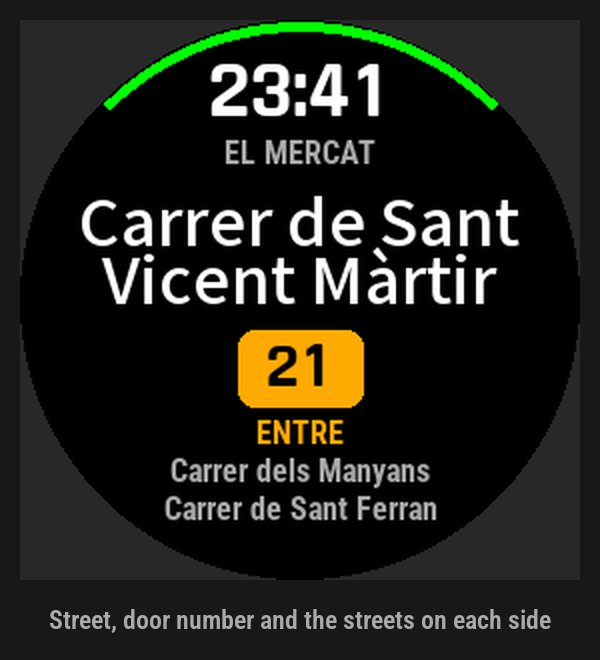
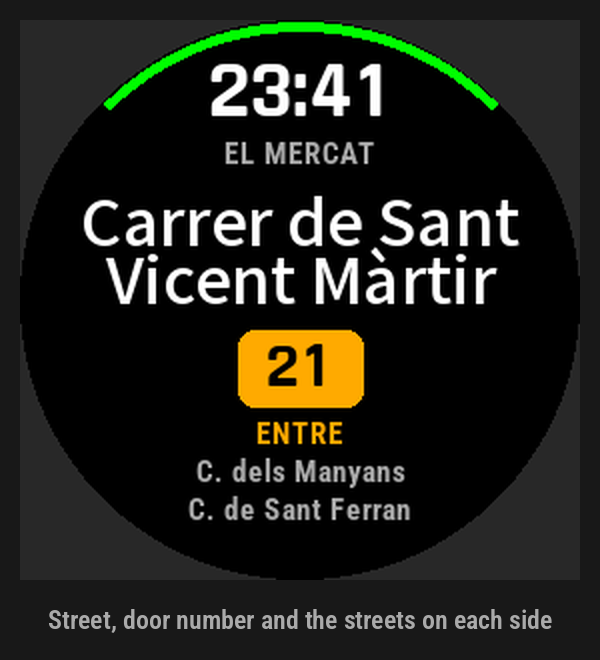
Tienda Valencia: fichas regeneradas con el nombre oficial del término y las abreviaturas
ficha_3: «término de Alboraia» (nombre_termino, INE), como da ahora tools/ref.py en 39.4930 -0.3530.
ficha_1, 2 y 4: las calles del tramo y la dirección del hospital van con Abrev.corta, como en el reloj.

diff --git a/tools/mockup.py b/tools/mockup.py
@@ -637,7 +637,7 @@ ESCENAS_VALENCIA = [
     ("Alacant: Canalejas", dict(calle1="Carrer de Canalejas", num1="nº 5", barrio="Raval de Sant Francesc",
                                 tramo=("Carrer de Rafael Terol", "Carrer de Sant Ferran"))),
     # L'Horta Nord, 39.4930 -0.3530: sin calle a 50 m; el poblado más cercano y el término.
-    ("Huerta: lugar y término", dict(lugar="Camí de Vera", sub="término de Alboraia / Alboraya",
+    ("Huerta: lugar y término", dict(lugar="Camí de Vera", sub="término de Alboraia",
                                      pie="30S 727625 4374833")),
     # Desde el centro de Manises (39.4925 -0.4630): el de urgencias más cercano, a 1,2 km, rumbo 130°. (El General
     # d'Elx no cabe entero en la línea: el escaparate pide un nombre que se lea.)
